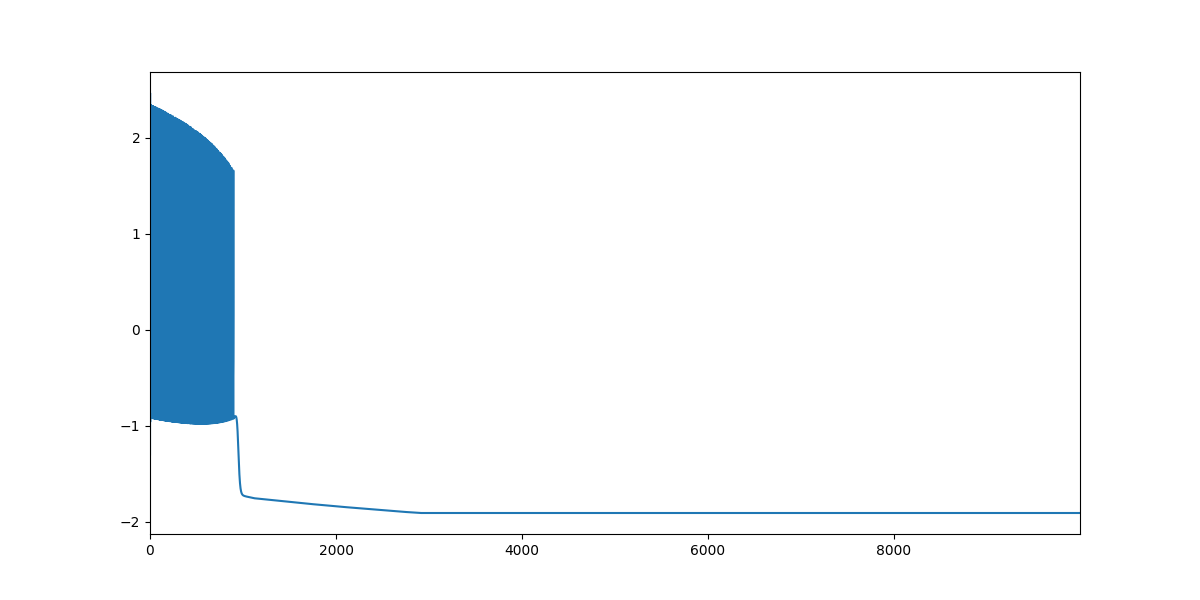
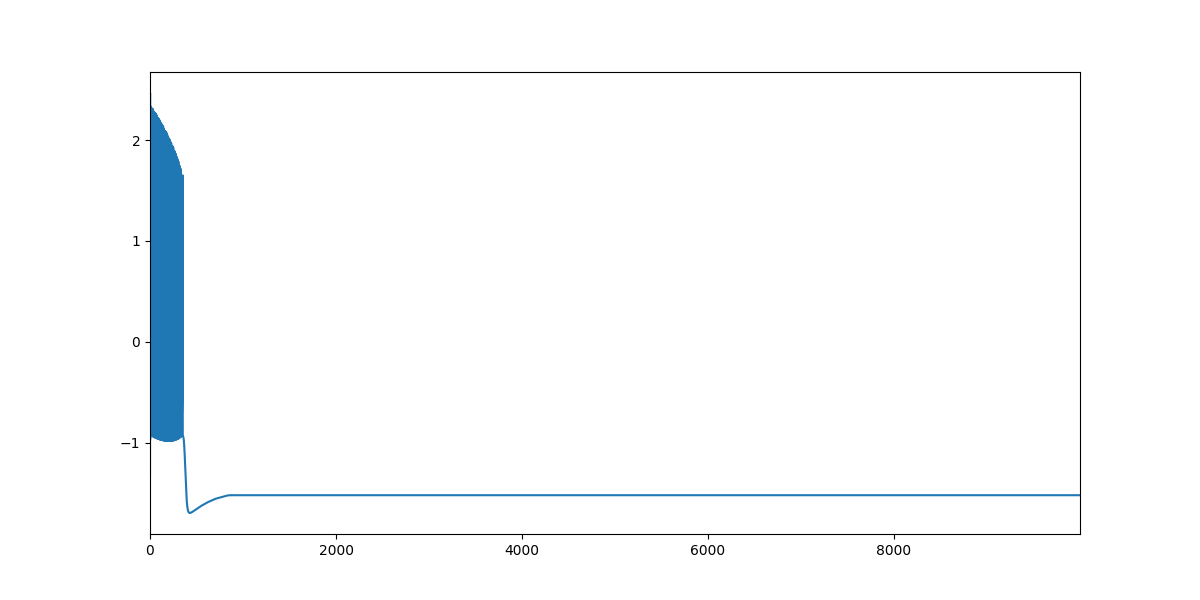
review unrolled

Changed region(s): [[0.1542, 0.81, 0.8942, 0.87], [0.1233, 0.18, 0.2158, 0.75], [0.0925, 0.54, 0.1233, 0.57]]

diff --git a/src/c/unrolled_code/unrolled_hr_c.c b/src/c/unrolled_code/unrolled_hr_c.c
@@ -30,7 +30,7 @@ int main()
     double start, end_function, end_all_functions, end_writing_operations, end;
     int i = 0, j = 0, save_every = 100;
     const char *filename = "./data/timings_HR/speed_c.csv";
-    float e = 3.0, e_chaotic = 3.281, S = 1.0, v = 0.1;
+    float e = 3.0, e_chaotic = 3.281, S = 3.0, v = 0.1;
     float loop_1 = 10000.0, loop_continue = 20000.0;
     float start_time = 0.0, time_increment = 0.001, initial_x = -1.3;
     float aux_x, aux_y, aux_z;
@@ -48,7 +48,8 @@ int main()
 
     /* regular_values initialization */
     float regular_values_x = initial_x, regular_values_y = 0.0, regular_values_z = 0.0, *regular_values_array;
-    double regular_values_time = 0.0, regular_values_data_rows = 0;
+    double regular_values_time = 0.0;
+    int regular_values_data_rows = 0;
 
     if (time_increment < 0 || ELEMENTS_HR < 1)
     {
@@ -85,7 +86,7 @@ int main()
 
         aux_x = regular_values_x + time_increment * (regular_values_y + 3 * regular_values_x * regular_values_x - regular_values_x * regular_values_x * regular_values_x - regular_values_z + e);
         aux_y = regular_values_y + time_increment * (1 - 5 * regular_values_x * regular_values_x - regular_values_y);
-        aux_z = regular_values_z + time_increment * M_VAL * (v * regular_values_z + S * (regular_values_x + 1.6));
+        aux_z = regular_values_z + time_increment * M_VAL * (-v * regular_values_z + S * (regular_values_x + 1.6));
 //   printf("\n%lf == %lf\t%lf == %lf\t%lf == %lf\t%lf == %lf\n",
 //         regular_values_array[i * ELEMENTS_HR], regular_values_x,
 //         regular_values_array[i * ELEMENTS_HR +1], regular_values_y,
@@ -141,7 +142,7 @@ int main()
 
         aux_x = chaotic_values_x + time_increment * (chaotic_values_y + 3 * chaotic_values_x * chaotic_values_x - chaotic_values_x * chaotic_values_x * chaotic_values_x - chaotic_values_z + e_chaotic);
         aux_y = chaotic_values_y + time_increment * (1 - 5 * chaotic_values_x * chaotic_values_x - chaotic_values_y);
-        aux_z = chaotic_values_z + time_increment * M_VAL * (v * chaotic_values_z + S * (chaotic_values_x + 1.6));
+        aux_z = chaotic_values_z + time_increment * M_VAL * (-v * chaotic_values_z + S * (chaotic_values_x + 1.6));
 
         chaotic_values_x = aux_x;
         chaotic_values_y = aux_y;
@@ -155,7 +156,8 @@ int main()
 
     /* regular_values_continue initialization */
     float regular_values_continue_x = regular_values_x, regular_values_continue_y = regular_values_y, regular_values_continue_z = regular_values_z, *regular_values_continue_array;
-    double  regular_values_continue_time = regular_values_time, regular_values_continue_data_rows = 0;
+    double  regular_values_continue_time = regular_values_time;
+    int regular_values_continue_data_rows = 0;
 
     if (time_increment < 0 || ELEMENTS_HR < 1)
     {
@@ -190,7 +192,7 @@ int main()
 
         aux_x = regular_values_continue_x + time_increment * (regular_values_continue_y + 3 * regular_values_continue_x * regular_values_continue_x - regular_values_continue_x * regular_values_continue_x * regular_values_continue_x - regular_values_continue_z + e);
         aux_y = regular_values_continue_y + time_increment * (1 - 5 * regular_values_continue_x * regular_values_continue_x - regular_values_continue_y);
-        aux_z = regular_values_continue_z + time_increment * M_VAL * (v * regular_values_continue_z + S * (regular_values_continue_x + 1.6));
+        aux_z = regular_values_continue_z + time_increment * M_VAL * (-v * regular_values_continue_z + S * (regular_values_continue_x + 1.6));
 
         regular_values_continue_x = aux_x;
         regular_values_continue_y = aux_y;
@@ -240,7 +242,7 @@ int main()
 
         aux_x = chaotic_values_continue_x + time_increment * (chaotic_values_continue_y + 3 * chaotic_values_continue_x * chaotic_values_continue_x - chaotic_values_continue_x * chaotic_values_continue_x * chaotic_values_continue_x - chaotic_values_continue_z + e_chaotic);
         aux_y = chaotic_values_continue_y + time_increment * (1 - 5 * chaotic_values_continue_x * chaotic_values_continue_x - chaotic_values_continue_y);
-        aux_z = chaotic_values_continue_z + time_increment * M_VAL * (v * chaotic_values_continue_z + S * (chaotic_values_continue_x + 1.6));
+        aux_z = chaotic_values_continue_z + time_increment * M_VAL * (-v * chaotic_values_continue_z + S * (chaotic_values_continue_x + 1.6));
 
         chaotic_values_continue_x = aux_x;
         chaotic_values_continue_y = aux_y;

diff --git a/docs/markdown/parameter_update_hr.md b/docs/markdown/parameter_update_hr.md
@@ -115,7 +115,7 @@ New chaotic synapsis simulation         |  New chaotic synapsis simulation conti
 
 Here the synapis was calculated over $x$ variable with negative presynaptic current: 
 $$
-x(t+1)=x+\Delta t(y(t)+3x^{3}(t)-x^{2}(t)-z(t)-e-I_{syn})
+x(t+1)=x+\Delta t(y(t)+3x^{3}(t)-x^{2}(t)-z(t)+e-I_{syn})
 $$
 
 
@@ -151,7 +151,7 @@ New chaotic synapsis simulation         |  New chaotic synapsis simulation conti
 
 Here the synapis was calculated over $x$, $y$ and $z$ variables with positive presynaptic current: 
 $$
-x(t+1)=x(t)+\Delta t(y(t)+3x^{3}(t)-x^{2}(t)-z(t)-e+I_{syn})
+x(t+1)=x(t)+\Delta t(y(t)+3x^{3}(t)-x^{2}(t)-z(t)+e+I_{syn})
 $$
 $$
 y(t+1)=y(t)+\Delta t(1 - 5 x^{2} - y(t) + I_{syn})
